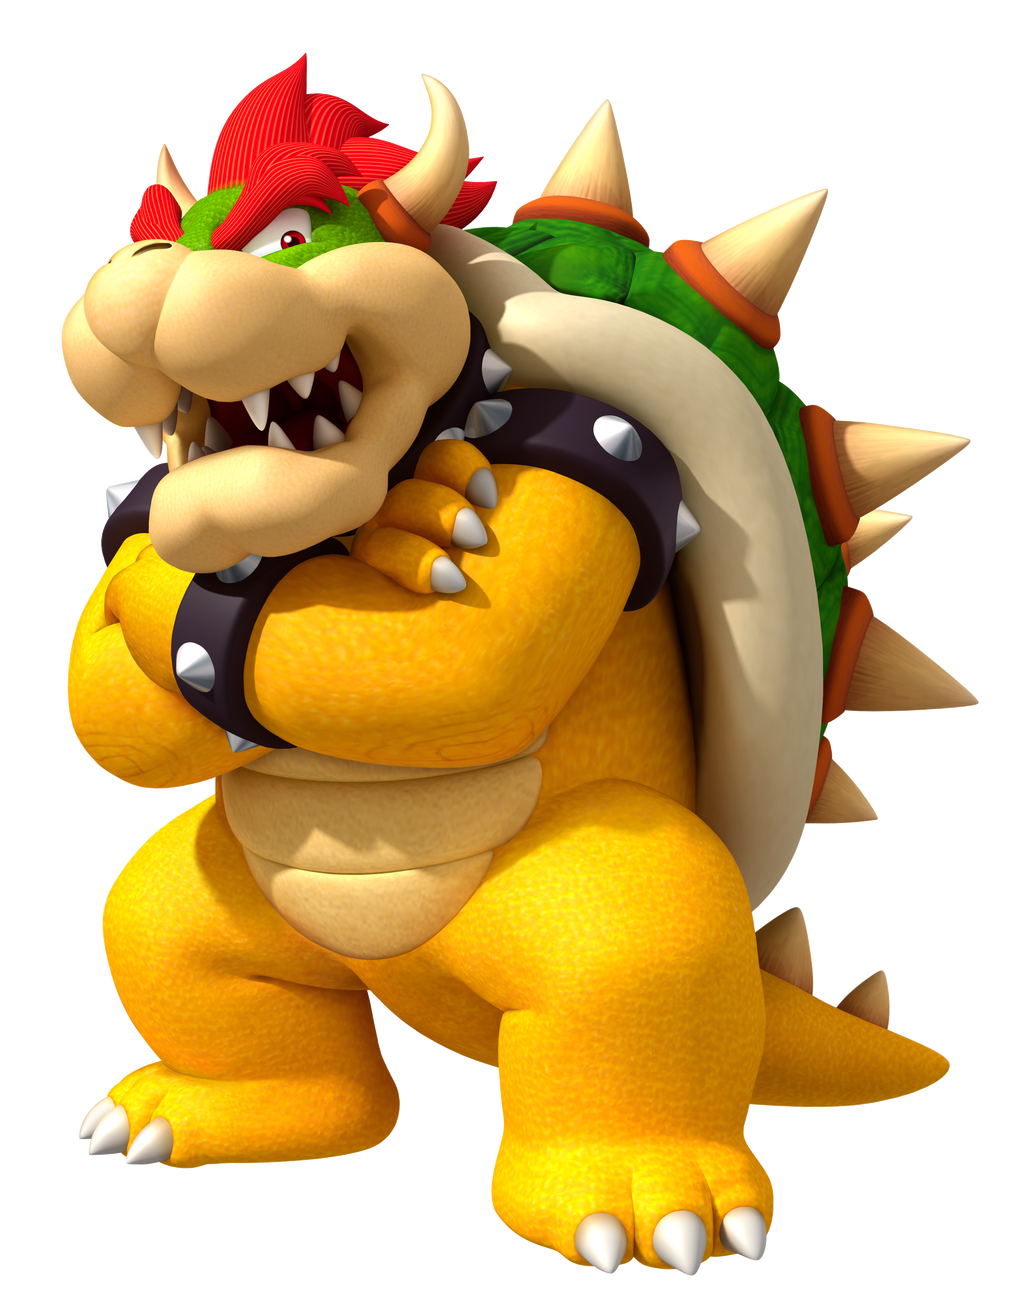
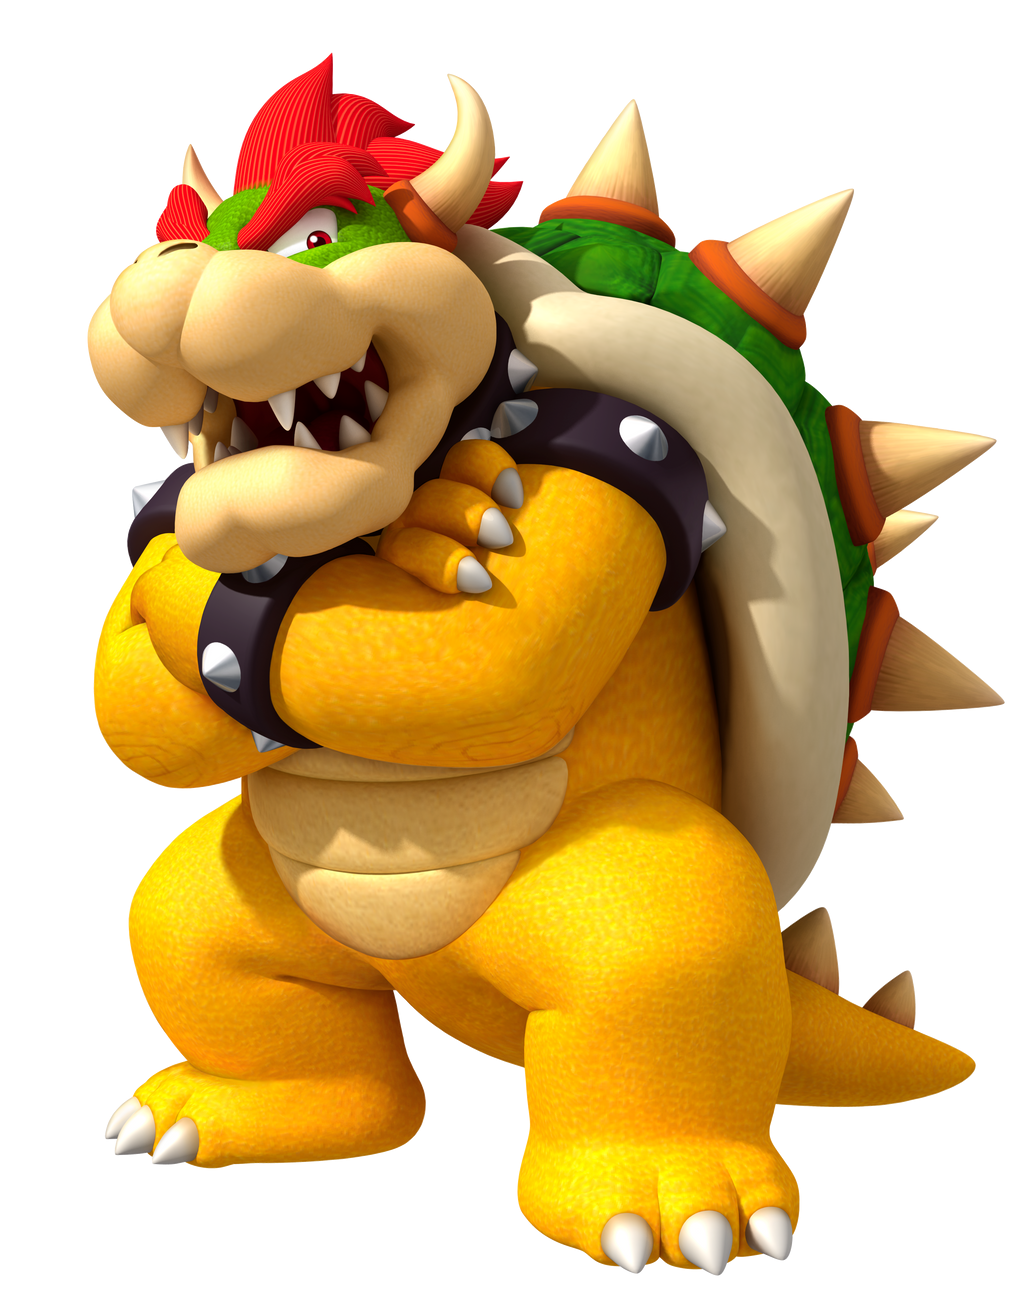
Cambia grid por flex y dispone un tamaño más apropiado de imagen.
- Renombra algunos nombres de clases.
- Añade alt a las imágenes.
- Sustituye etiqueta <p> por <h2>
- Leves cambios en las imágenes de mario.png y bowser.png para que dé la impresión de que está mejor centrado sobre el título.
- Elimina tarea.md
- Modifica readme.md con información del ejercicio del curso de React y traducción del readme que genera por defecto el generador de proyectos "Create React App".

diff --git a/ejercicio-1/src/App.css b/ejercicio-1/src/App.css
@@ -1,34 +1,46 @@
-
 body {
-  margin: 2rem;
+  margin: 0;
+  padding: 0;
 }
 
+.content-wrapper {
+  display:flex;
+  margin: 2em;
+}
+
+/* Contenedor o wrapper de tarjetas */
 .characters-wrapper {
-  display: grid;
-  grid-template-columns: repeat(3, 1fr);
-  grid-gap: 0.5rem;
+  display: flex;
+  flex-direction: row;
+  flex-wrap: wrap;
+  gap: 1em;
+  justify-content: center;
   align-items: center;
-  
+  width: 100%;
 }
 
+/* Tarjeta de personajes */
 .card {
   display: flex;
   flex-direction: column;
   align-items: center;
-  
+  width: 20%;
 
-  padding: 1rem;
+  padding: 1em;
 
-  background-color:#1bcce325;
-  border: 2px solid rgb(0, 217, 255);
-  border-radius: 1.1rem;
-
+  background-color: #1bcce325;
+  border: 2px solid rgb(0, 113, 133);
+  border-radius: 1.1em;
 }
 
 .card img {
-  width: 50%;
+  width: 100%;
 }
 
-.card p {
-  font-size: 1.5rem;
+.card h2 {
+  color: rgb(0, 77, 90);
+  font-size: 2em;
+  margin: 1rem;
+  width: 100%;
+  text-align: center;
 }

diff --git a/ejercicio-1/src/App.js b/ejercicio-1/src/App.js
@@ -9,7 +9,7 @@ function App() {
   let characterName = { protagonist: 'Mario', antagonist: 'Bowser', helper: 'Yoshi' };
 
   return (
-    <div className="content-container">
+    <div className="content-wrapper">
       <div className='characters-wrapper'>
         {characterCard(yoshiPic, characterName.helper)}
         {characterCard(bowserPic, characterName.antagonist)}
@@ -28,8 +28,8 @@ function characterCard(charImg, charName) {
 
   return (
     <div className="card">
-      <img src={charImg}></img>
-      <p>{charName}</p>
+      <img alt="Imagen del personaje {charnName}"  src={charImg}></img>
+      <h2>{charName}</h2>
     </div>
   );
 }

diff --git a/ejercicio-1/README.md b/ejercicio-1/README.md
@@ -1,70 +1,77 @@
-# Getting Started with Create React App
+# Curso React
+## Ejercicio 1
 
-This project was bootstrapped with [Create React App](https://github.com/facebook/create-react-app).
+[![Video 1 - Curso React](https://img.youtube.com/vi/VoMyUgI-5NI/0.jpg)](https://www.youtube.com/watch?v=VoMyUgI-5NI)
+[Video 1 - Curso React]({https://www.youtube.com/watch?v=VoMyUgI-5NI} "Video 1 - Curso React")
+## Tareas propuestas
+- Crear 3 tarjetas donde hay una imagen en cada una.
+- Crear estructura con JSX y CSS
+- Texto bajo las imágenes
+- Color de fondo para las tarjetas
 
-## Available Scripts
+# Empezando con Create React App
 
-In the project directory, you can run:
+Este proyecto se ha creado con [Create React App](https://github.com/facebook/create-react-app).
 
-### `npm start`
+## Scripts disponibles
 
-Runs the app in the development mode.\
-Open [http://localhost:3000](http://localhost:3000) to view it in your browser.
+En el directorio del proyecto, puedes ejecutar:
 
-The page will reload when you make changes.\
-You may also see any lint errors in the console.
+#### `npm start`
 
-### `npm test`
+Ejecuta la aplicación en modo desarrollo.
+Abre [http://localhost:3000](http://localhost:3000) para verla en tu navegador.
 
-Launches the test runner in the interactive watch mode.\
-See the section about [running tests](https://facebook.github.io/create-react-app/docs/running-tests) for more information.
+La página se recargará cuando realices cambios.
+También puedes ver cualquier error de lint en la consola.
 
-### `npm run build`
+#### `npm test`
 
-Builds the app for production to the `build` folder.\
-It correctly bundles React in production mode and optimizes the build for the best performance.
+Lanza el ejecutor de pruebas en el modo de vigilancia interactiva.\_## `npm test`.
+Vea la sección sobre [ejecución de pruebas](https://facebook.github.io/create-react-app/docs/running-tests) para más información.
 
-The build is minified and the filenames include the hashes.\
-Your app is ready to be deployed!
+#### `npm run build`
 
-See the section about [deployment](https://facebook.github.io/create-react-app/docs/deployment) for more information.
+Construye la aplicación para producción en la carpeta `build`.
+Agrupa correctamente React en modo de producción y optimiza la compilación para obtener el mejor rendimiento.
 
-### `npm run eject`
+La compilación está minificada y los nombres de archivo incluyen los hashes.\
+Tu aplicación está lista para ser desplegada.
 
-**Note: this is a one-way operation. Once you `eject`, you can't go back!**
+Consulta la sección sobre [deployment](https://facebook.github.io/create-react-app/docs/deployment) para más información.
 
-If you aren't satisfied with the build tool and configuration choices, you can `eject` at any time. This command will remove the single build dependency from your project.
+#### `npm run eject`
 
-Instead, it will copy all the configuration files and the transitive dependencies (webpack, Babel, ESLint, etc) right into your project so you have full control over them. All of the commands except `eject` will still work, but they will point to the copied scripts so you can tweak them. At this point you're on your own.
+**Nota: esta es una operación unidireccional. Una vez que  ejecutes `eject`, ¡no puedes volver atrás!**
 
-You don't have to ever use `eject`. The curated feature set is suitable for small and middle deployments, and you shouldn't feel obligated to use this feature. However we understand that this tool wouldn't be useful if you couldn't customize it when you are ready for it.
+Si no estás satisfecho con la herramienta de compilación y las opciones de configuración, puedes `eject` en cualquier momento. Este comando eliminará la única dependencia de compilación de tu proyecto.
 
-## Learn More
+En su lugar, copiará todos los archivos de configuración y las dependencias transitivas (webpack, Babel, ESLint, etc) en tu proyecto para que tengas un control total sobre ellos. Todos los comandos excepto `eject` seguirán funcionando, pero apuntarán a los scripts copiados para que puedas modificarlos. En este punto estás por tu cuenta.
 
-You can learn more in the [Create React App documentation](https://facebook.github.io/create-react-app/docs/getting-started).
+No tienes que usar nunca `eject`. El conjunto de características curadas es adecuado para despliegues pequeños y medianos, y no deberías sentirte obligado a usar esta característica. Sin embargo, entendemos que esta herramienta no sería útil si no pudieras personalizarla cuando estés preparado para ello.
 
-To learn React, check out the [React documentation](https://reactjs.org/).
+## Más información
 
-### Code Splitting
+Puedes aprender más en la [documentación de Create React App](https://facebook.github.io/create-react-app/docs/getting-started).
 
-This section has moved here: [https://facebook.github.io/create-react-app/docs/code-splitting](https://facebook.github.io/create-react-app/docs/code-splitting)
+Para aprender React, consulta la [React documentation](https://reactjs.org/).
 
-### Analyzing the Bundle Size
+### División del código
 
-This section has moved here: [https://facebook.github.io/create-react-app/docs/analyzing-the-bundle-size](https://facebook.github.io/create-react-app/docs/analyzing-the-bundle-size)
+Esta sección se ha movido aquí: [https://facebook.github.io/create-react-app/docs/code-splitting](https://facebook.github.io/create-react-app/docs/code-splitting)
 
-### Making a Progressive Web App
+### Analizando el Tamaño del Bundle
 
-This section has moved here: [https://facebook.github.io/create-react-app/docs/making-a-progressive-web-app](https://facebook.github.io/create-react-app/docs/making-a-progressive-web-app)
+Esta sección se ha movido aquí: [https://facebook.github.io/create-react-app/docs/analyzing-the-bundle-size](https://facebook.github.io/create-react-app/docs/analyzing-the-bundle-size)
 
-### Advanced Configuration
+### Creando una Web App Progresiva
 
-This section has moved here: [https://facebook.github.io/create-react-app/docs/advanced-configuration](https://facebook.github.io/create-react-app/docs/advanced-configuration)
+Esta sección se ha movido aquí: [https://facebook.github.io/create-react-app/docs/making-a-progressive-web-app](https://facebook.github.io/create-react-app/docs/making-a-progressive-web-app)
 
-### Deployment
+### Configuración avanzada
 
-This section has moved here: [https://facebook.github.io/create-react-app/docs/deployment](https://facebook.github.io/create-react-app/docs/deployment)
+Esta sección se ha movido aquí: [https://facebook.github.io/create-react-app/docs/advanced-configuration](https://facebook.github.io/create-react-app/docs/advanced-configuration)
 
-### `npm run build` fails to minify
+### Despliegue
 
-This section has moved here: [https://facebook.github.io/create-react-app/docs/troubleshooting#npm-run-build-fails-to-minify](https://facebook.github.io/create-react-app/docs/troubleshooting#npm-run-build-fails-to-minify)
+Traducción realizada con la versión gratuita del traductor www.DeepL.com/Translator
